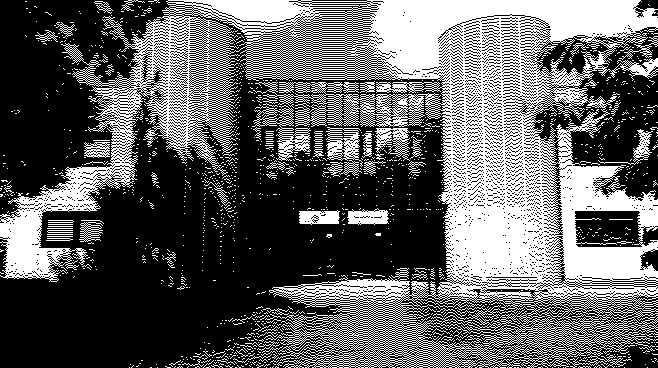
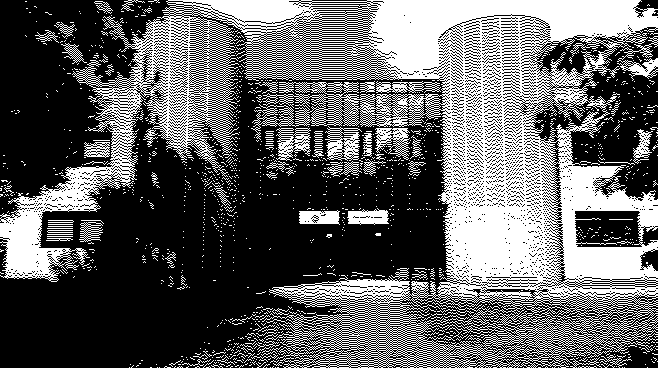
chore: tentative correction traitement diffusion

diff --git a/src/traitements.rs b/src/traitements.rs
@@ -1,7 +1,7 @@
 use crate::constantes::{BLACK, BLUE, COLORS, CYAN, GREEN, GREY, MAGENTA, RED, WHITE, YELLOW};
 use crate::matrice_erreur::matrice_erreur::MatriceErreur;
-use crate::utils::{get_closest_color, get_light, save};
-use image::{DynamicImage, GenericImageView, ImageBuffer, ImageError, Pixel, RgbImage};
+use crate::utils::{get_closest_color, get_light, save, get_pixel};
+use image::{DynamicImage, GenericImageView, ImageBuffer, ImageError, RgbImage};
 
 pub fn traitement_split_white(img: &DynamicImage, path_out: String) -> Result<(), ImageError> {
     let mut img_out: RgbImage = img.clone().to_rgb8();
@@ -149,12 +149,12 @@ pub fn traitement_diffusion_erreur(
     let (width, height) = img.dimensions();
     let mut img_out: RgbImage = ImageBuffer::new(width, height);
 
-    // Convertir l'image en niveaux de gris
+    // Convertir l'image en niveaux de gris (noir et blanc)
     let mut luminances: Vec<Vec<f32>> = vec![vec![0.0; width as usize]; height as usize];
     for y in 0..height {
         for x in 0..width {
-            let pixel = img.get_pixel(x, y).to_rgb();
-            luminances[y as usize][x as usize] = get_light(pixel);
+            let pixel = get_pixel(img, x, y); // Utilisation de la méthode utilitaire
+            luminances[y as usize][x as usize] = get_light(pixel); // Calcul de la luminance
         }
     }
 
@@ -162,24 +162,26 @@ pub fn traitement_diffusion_erreur(
     for y in 0..height as usize {
         for x in 0..width as usize {
             let old_luminance = luminances[y][x];
-            let new_luminance = if old_luminance > 0.5 { 1.0 } else { 0.0 };
+            let new_luminance = if old_luminance > 0.5 { 1.0 } else { 0.0 }; // Seuil binaire
             let error = old_luminance - new_luminance;
 
             // Définir la nouvelle couleur (noir ou blanc)
             let new_pixel = if new_luminance == 1.0 {
-                image::Rgb([255, 255, 255])
+                image::Rgb([255, 255, 255]) // Blanc
             } else {
-                image::Rgb([0, 0, 0])
+                image::Rgb([0, 0, 0]) // Noir
             };
             img_out.put_pixel(x as u32, y as u32, new_pixel);
 
             // Diffuser l'erreur aux voisins en utilisant la matrice d'erreur
             for row in 0..matrice_erreur.matrix.len() {
                 for col in 0..matrice_erreur.matrix[row].len() {
-                    // par default le coefficient est la première valeur de la matrice
+                    // Récupérer le coefficient de la matrice d'erreur
                     let coefficient = matrice_erreur.get_value(row, col).unwrap_or(0.0);
                     let nx = x as isize + col as isize - matrice_erreur.x_origin as isize;
                     let ny = y as isize + row as isize;
+
+                    // Vérifier que les indices voisins sont dans les limites de l'image
                     if coefficient != 0.0
                         && nx >= 0
                         && nx < width as isize
@@ -195,5 +197,6 @@ pub fn traitement_diffusion_erreur(
 
     // Convertir le buffer en DynamicImage et sauvegarder
     let img_out = DynamicImage::ImageRgb8(img_out);
-    save(&img_out, path_out)
+    save(&img_out, path_out) // Utilisation de la méthode utilitaire pour sauvegarder
 }
+

diff --git a/src/main.rs b/src/main.rs
@@ -81,13 +81,12 @@ fn main() -> Result<(), ImageError> {
             let floyd_stenbeirg_matrice = MatriceErreur::new(
                 1,
                 vec![
-                    vec![0.0, 0.4375],    // Droite
-                    vec![0.1875, 0.3125], // Gauche-bas, bas
-                    vec![0.0625],         // Droite-bas
+                    vec![0.0, 0.0, 7.0 / 16.0],
+                    vec![3.0 / 16.0, 5.0 / 16.0, 1.0 / 16.0],
                 ],
             );
             let qst16_matrice = MatriceErreur::new(
-                0, // La position courante (le pixel à traiter) est dans la première colonne
+                0,
                 vec![
                     vec![0.5], // Erreur diffusée à droite
                     vec![0.5], // Erreur diffusée en bas

diff --git a/README.md b/README.md
@@ -811,6 +811,7 @@ Le type Rust correspondant à une sélection d'options fournies par l'utilisateu
 - `couleurs`
 - `dithering`
 - `ordered_dithering`
+- `error_diffusion`
 
 ### Question 23
 
